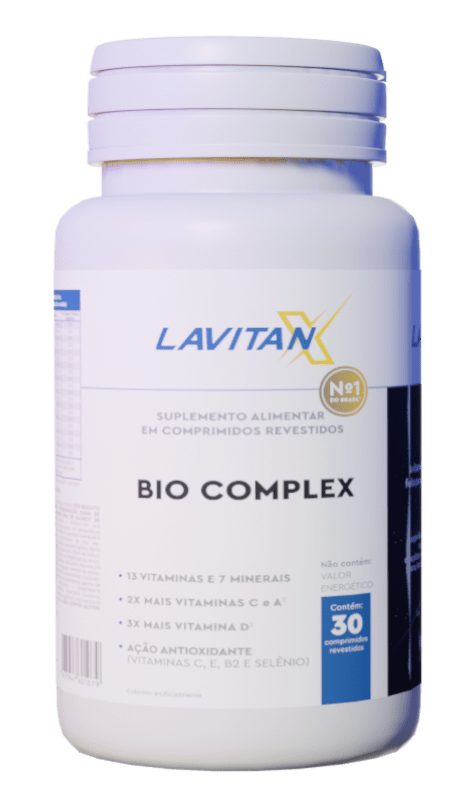
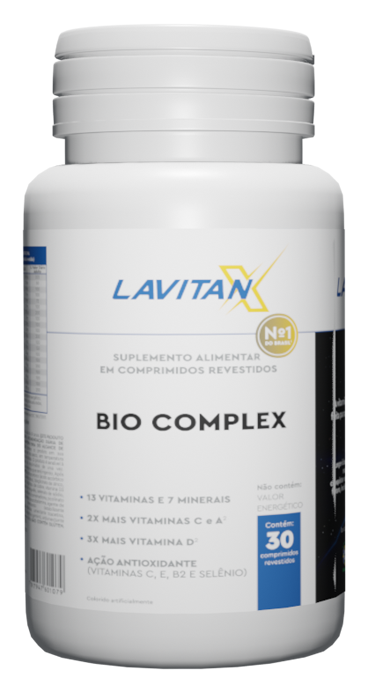
images

diff --git a/src/components/FourthSection/FourthSection.jsx b/src/components/FourthSection/FourthSection.jsx
@@ -2,7 +2,7 @@ import React, { useRef, useEffect, useState } from "react";
 import { gsap } from "gsap";
 import { ScrollTrigger } from "gsap/all";
 import "./styles.css";
-import pillBottle from "../../assets/pillBottle.svg";
+import pillBottle from "../../assets/pillBottle.png";
 import { gallery, gridValues } from './galleryData'
 import LocomotiveScroll from "locomotive-scroll";
 import "locomotive-scroll/src/locomotive-scroll.scss";
